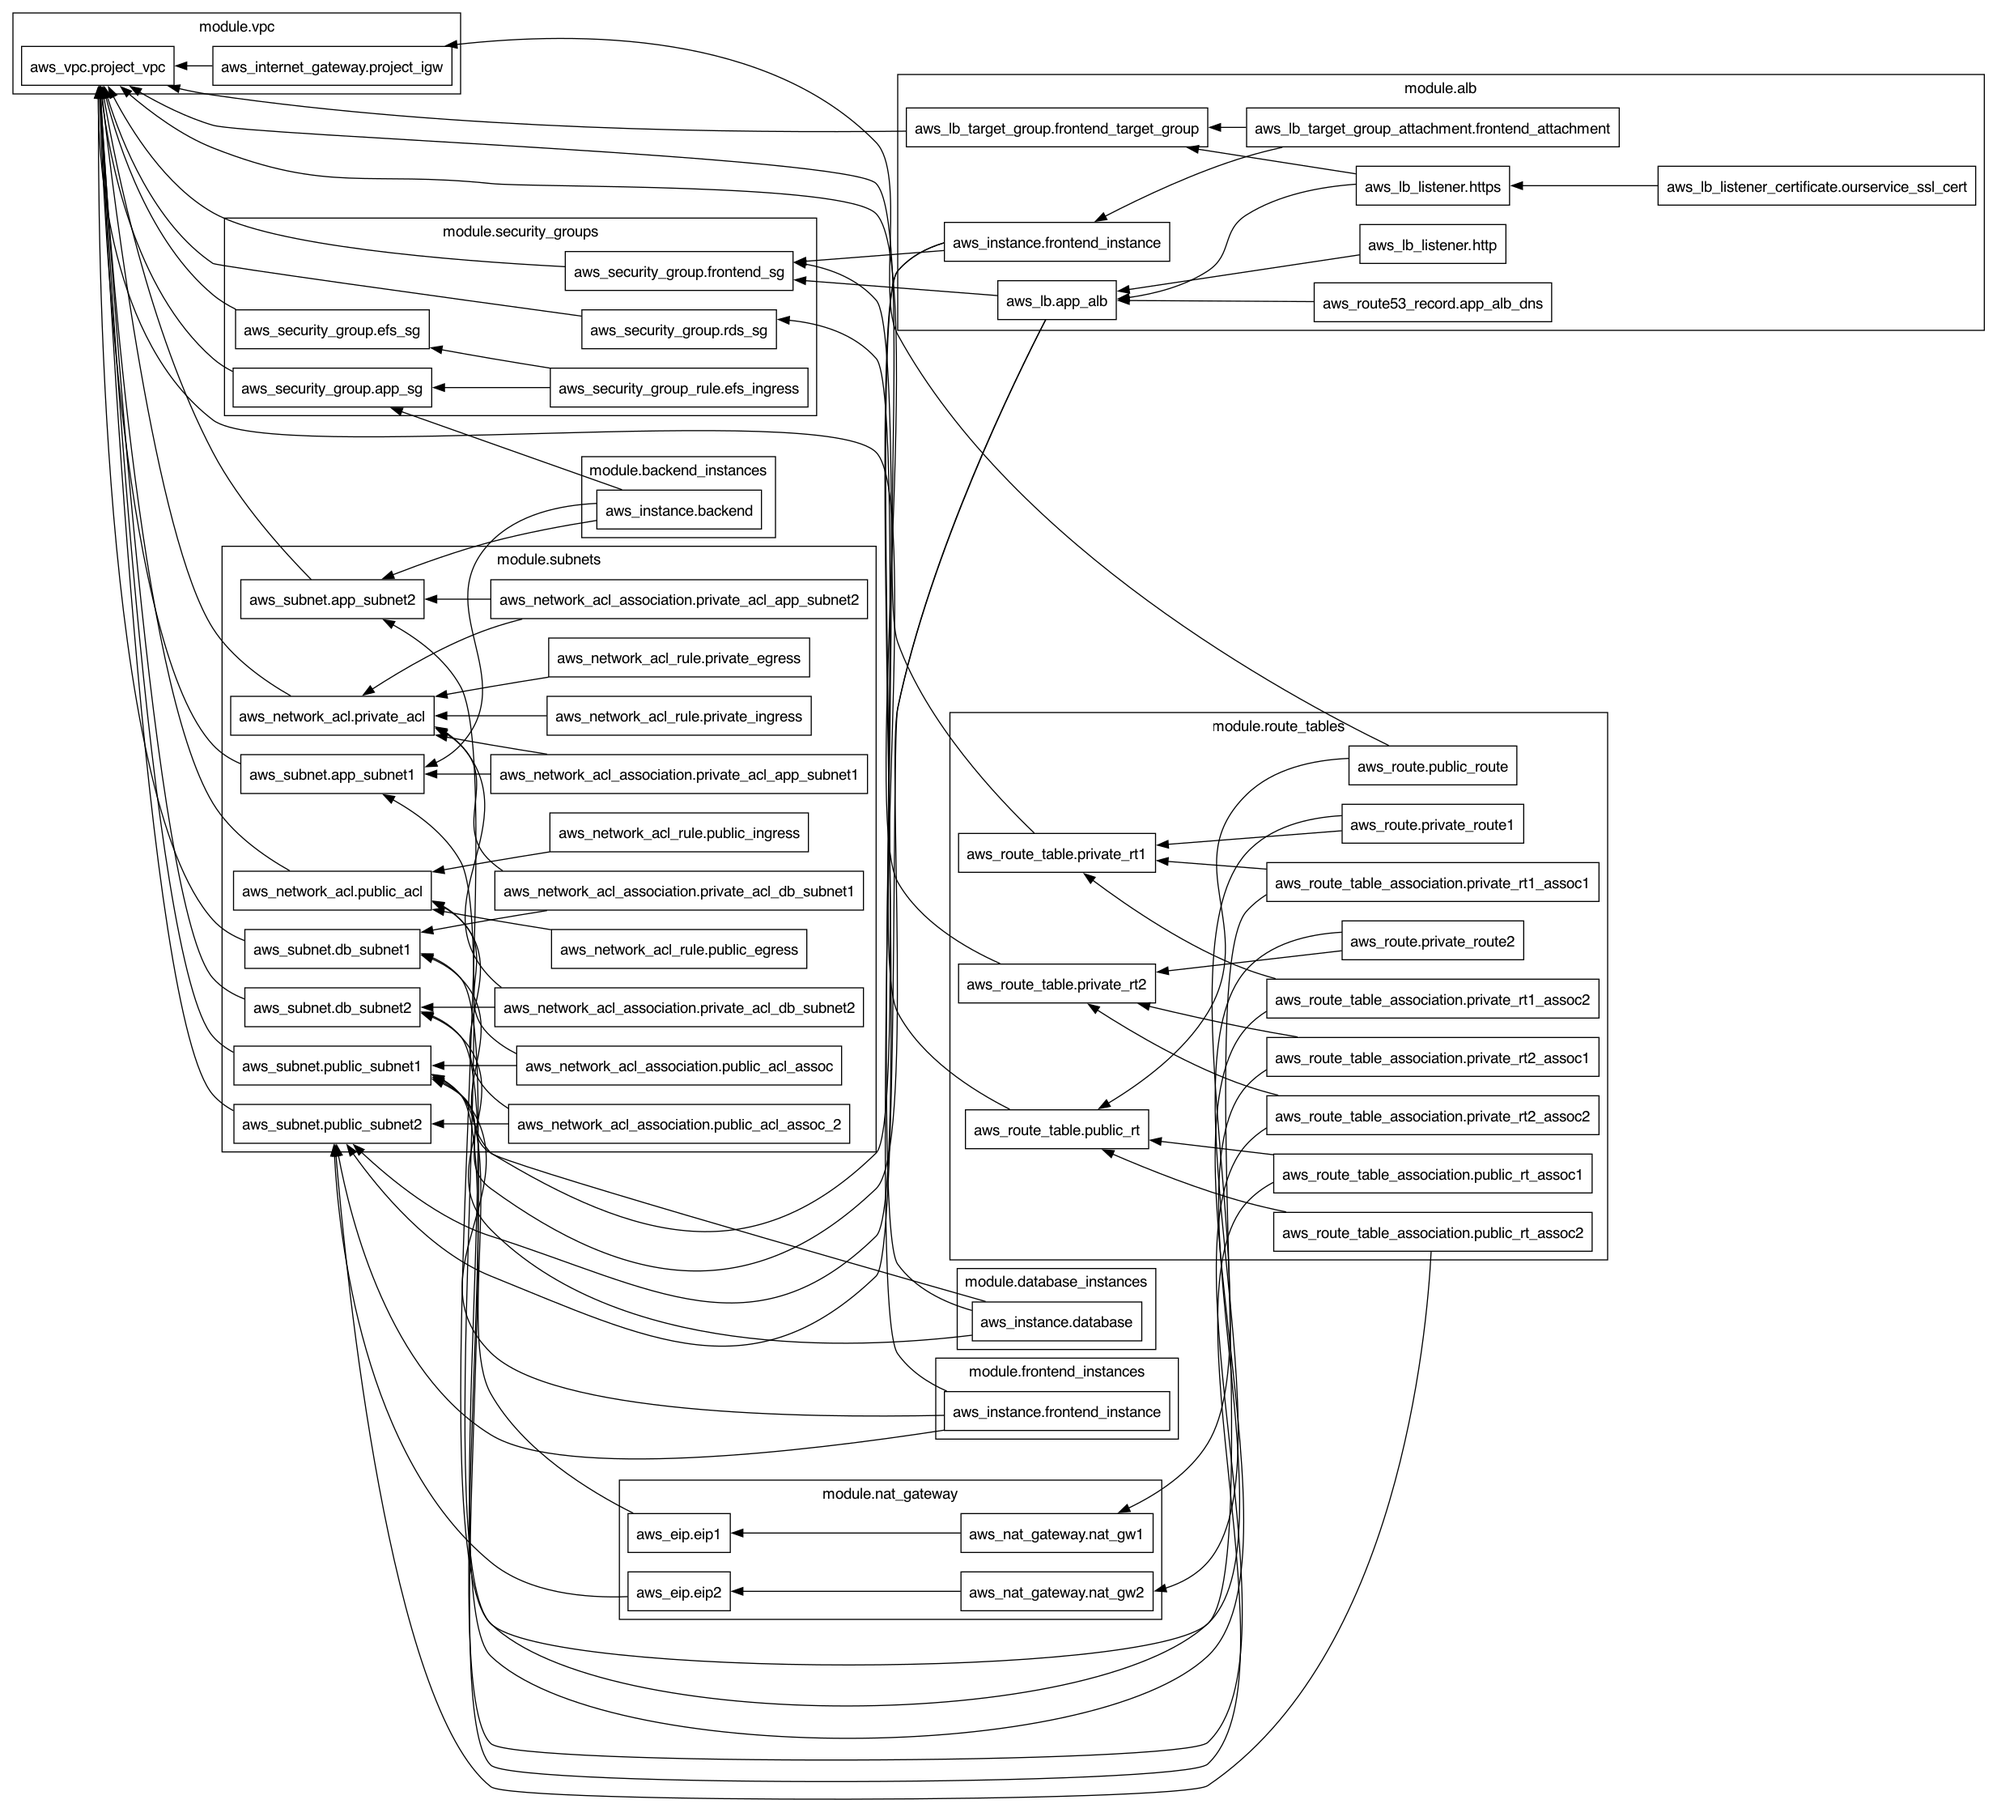
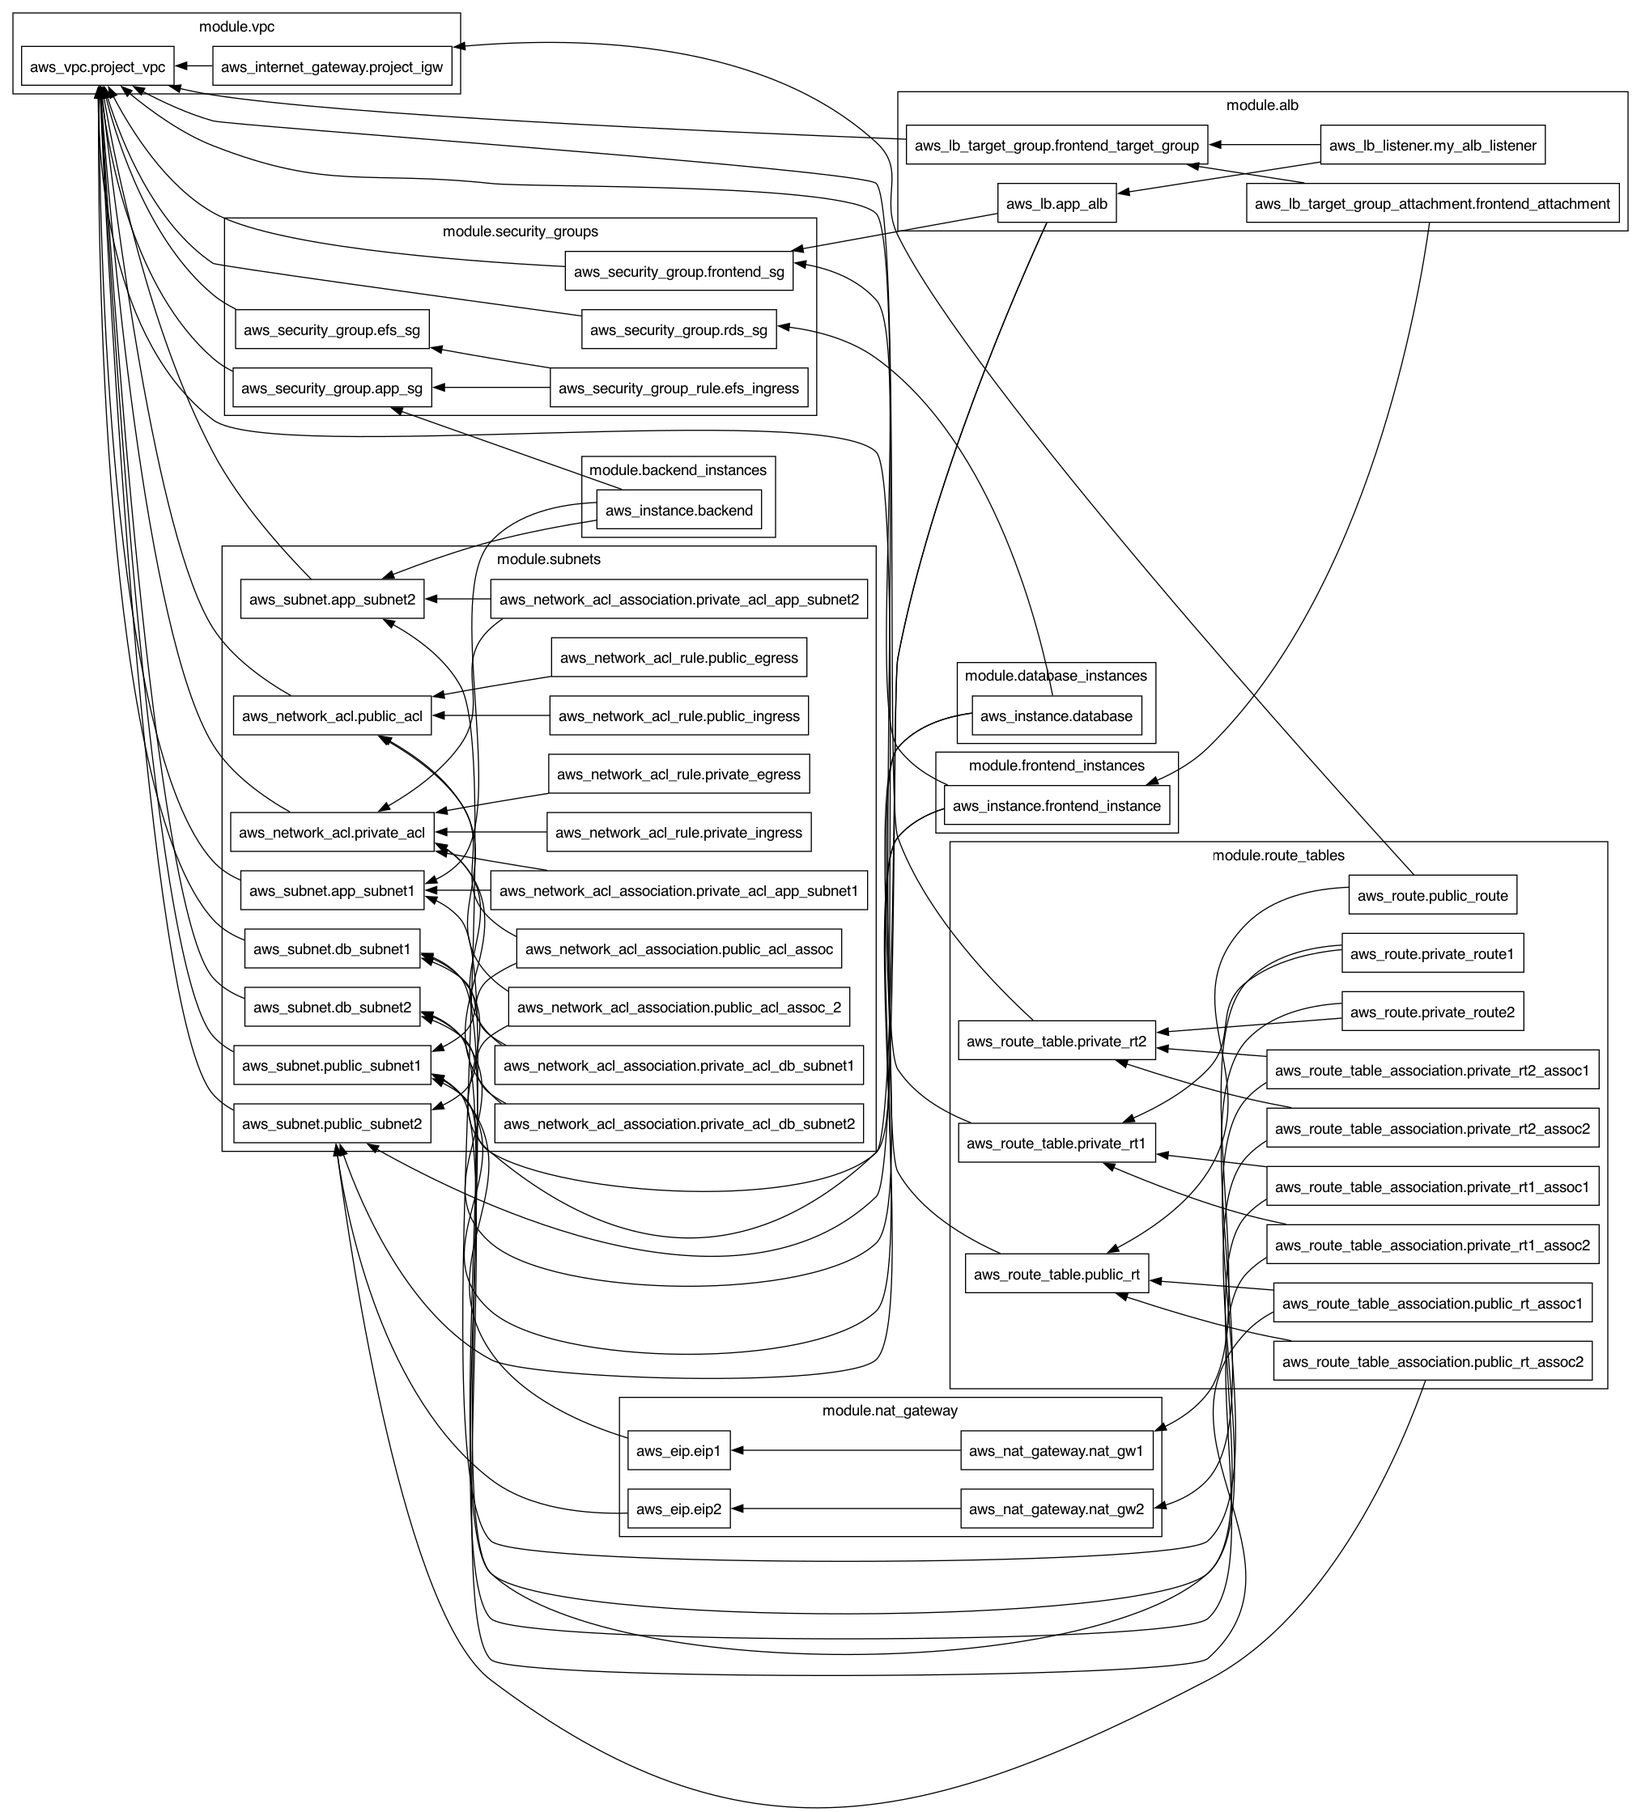
Instanciating frontend instances, playing around with port redirections, listeners and checking security groups and NACLs

diff --git a/terraform-infrastructure/README.MD b/terraform-infrastructure/README.MD
@@ -12,3 +12,13 @@
 
 	5.	modules/:
 	-	This directory contains all the modules, each representing a logical component of the infrastructure.
+
+
+I try to always swipe my terraform clean so you will need to 'terraform init' if you want to test
+
+	echo $AWS_PROFILE  #or your profile for the school's AWS
+	terraform init
+	terraform validate
+	terraform plan
+	terraform apply -auto-aprouve
+	terraform destroy -auto-aprouve
